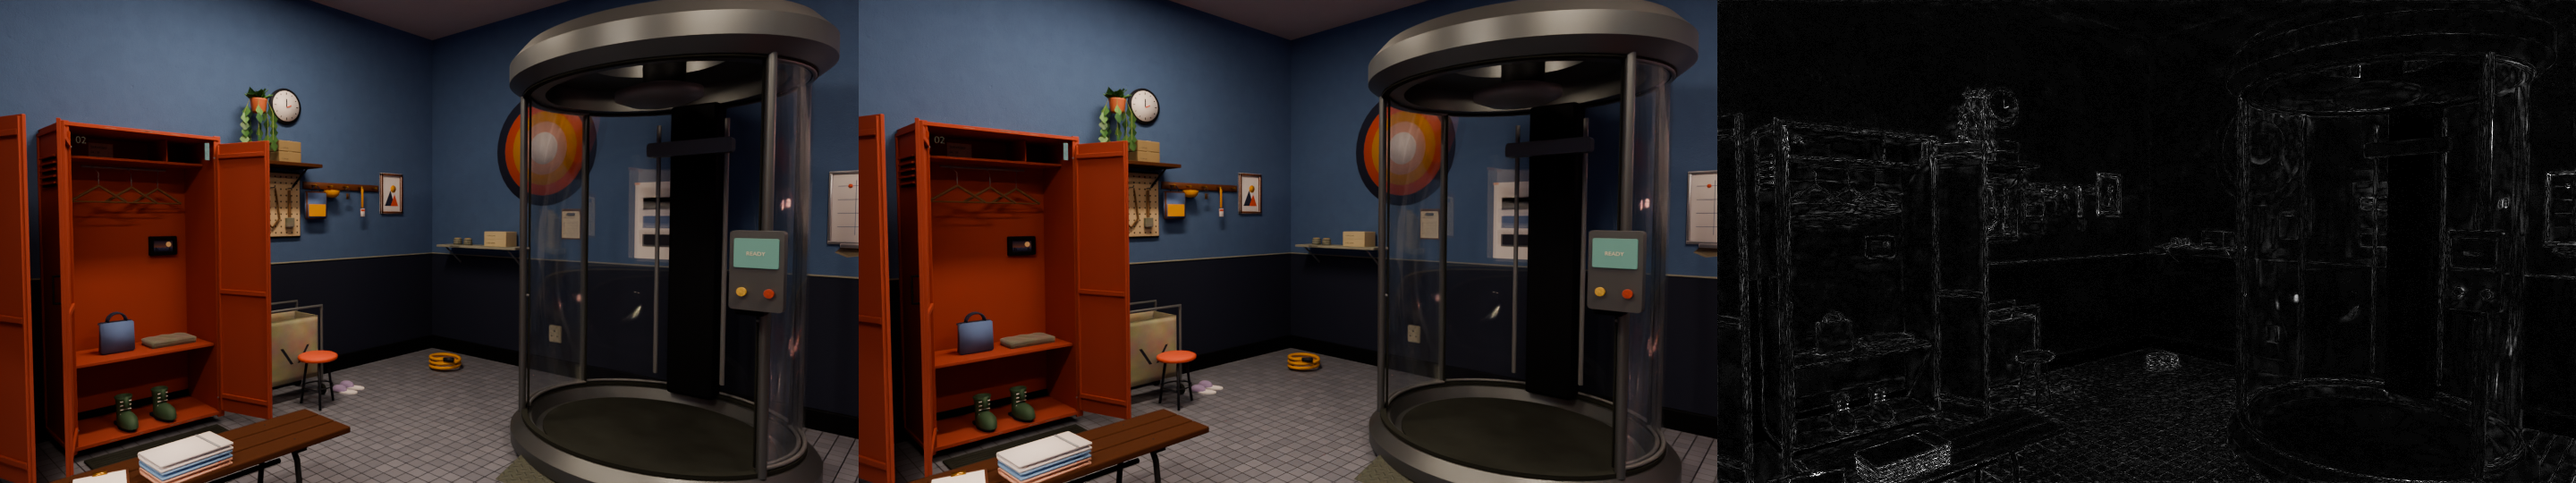
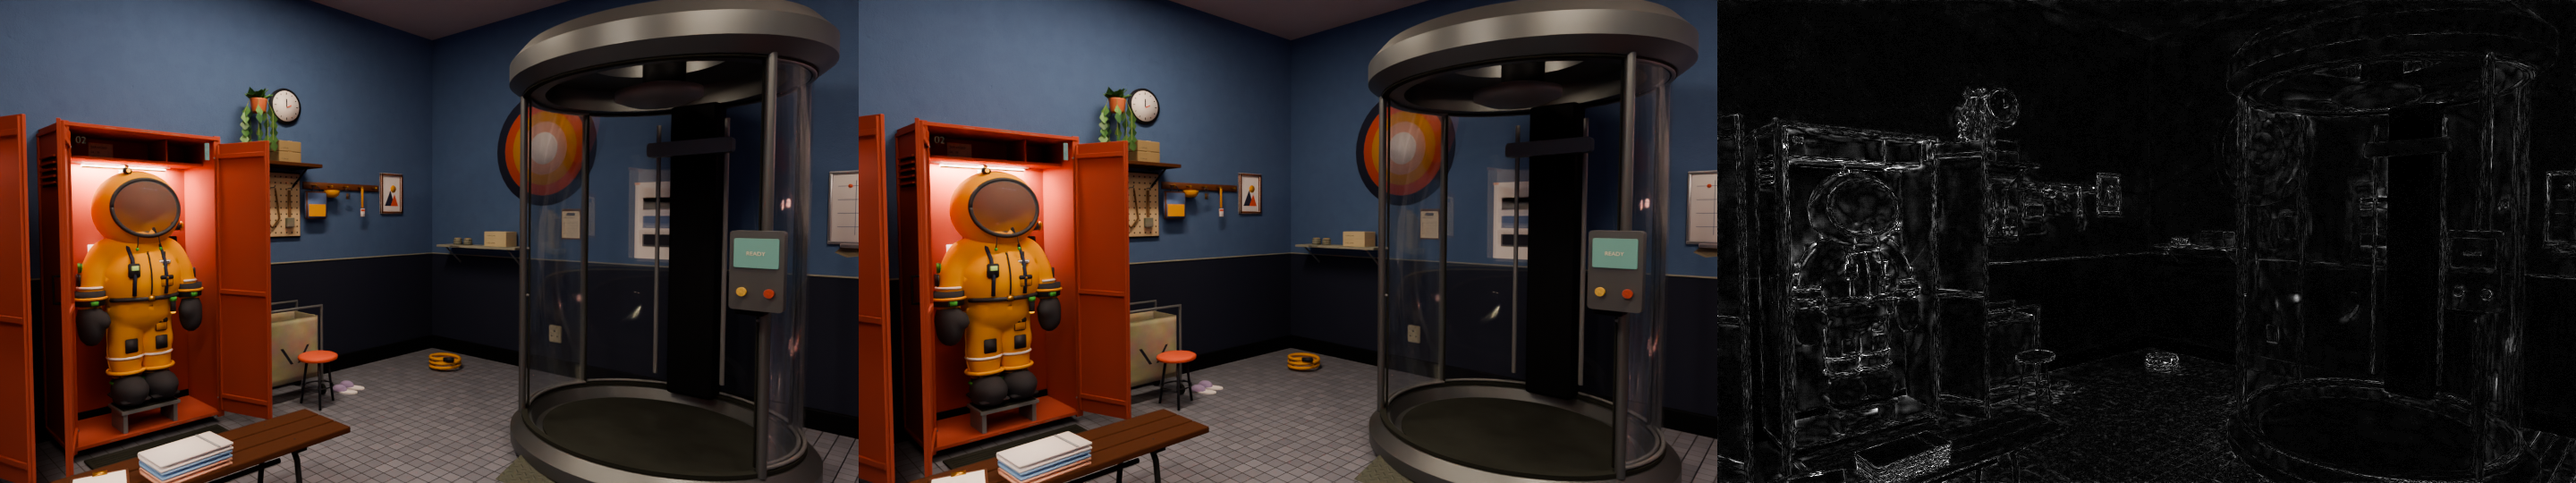
Record the Geiger owner decision in the canonical docs; rerun the optimisation render comparison on the post-suit module
Addresses the two Codex P2 findings on the second review of PR 64.

Claude-Session: https://claude.ai/code/session_017ZYc5YVsgaxmMpnAsLGzAo

diff --git a/sections/spawn-room/production/optimise/README.md b/sections/spawn-room/production/optimise/README.md
@@ -67,23 +67,22 @@ Every number below (objects, joins, conversions, draw calls, materials) comes fr
   lost the keyframes of
   `POD_state_READY` (an animated text object converted to a mesh); Codex's review of #60 caught this class of bug and the
   comparison now fails on it, and also fails if the derivative gains an action, driver or NLA entry the original did not have.
-- `validate_contacts.py` on the derivative: PASS (224 tagged objects, 0 failures), same as the original. (An earlier
+- `validate_contacts.py` on the derivative: PASS (208 tagged objects, 0 failures) on the post-suit module, same as the original (the count was 224 before the suit pass removed the belongings and added the hooks, docks and strip lights). (An earlier
   version of this script merged support targets and failed 48 of them; targets are now kept by name.)
 - Render comparison (Cycles, 48 samples, denoised, fixed seed, 960x540) on six fixed validation cameras, original vs
   derivative; `renders/<camera>.png` shows before | after | difference amplified 6x:
 
   | Camera | mean abs diff | 99th percentile | pixels differing by more than 8% |
   |---|---:|---:|---:|
-  | VALIDATE_Spawn | 0.0057 | 0.039 | 0.081% |
-  | VALIDATE_LockerDoor | 0.0060 | 0.035 | 0.077% |
-  | VALIDATE_BriefingDoor | 0.0079 | 0.043 | 0.190% |
-  | VALIDATE_ExitReverse | 0.0053 | 0.035 | 0.055% |
-  | VALIDATE_Hero_A | 0.0056 | 0.035 | 0.084% |
-  | VALIDATE_Material_A | 0.0039 | 0.024 | 0.003% |
+  | VALIDATE_Spawn | 0.0066 | 0.047 | 0.186% |
+  | VALIDATE_LockerDoor | 0.0073 | 0.047 | 0.194% |
+  | VALIDATE_BriefingDoor | 0.0091 | 0.051 | 0.311% |
+  | VALIDATE_ExitReverse | 0.0057 | 0.039 | 0.101% |
+  | VALIDATE_Hero_A | 0.0071 | 0.051 | 0.249% |
+  | VALIDATE_Material_A | 0.0062 | 0.039 | 0.112% |
 
   The differences sit on edges (anti-aliasing and denoiser noise from a different object order); there are no
-  colour or pattern shifts. I looked at the montages for Spawn and BriefingDoor; the other four were checked by the
-  numbers only. This is a Cycles comparison, not engine rendering, and not art approval.
+  colour or pattern shifts. Rendered again on the post-suit module and its regenerated derivative; I looked at the Hero_A montage (suit, visor, boot dock and strip light match, differences on edges only); the other five were checked by the numbers only. This is a Cycles comparison, not engine rendering, and not art approval.
 
 ## Not done / not claimed
 

diff --git a/sections/spawn-room/production/CHECKLIST.md b/sections/spawn-room/production/CHECKLIST.md
@@ -5,6 +5,9 @@
 > **Art-direction canon:** Critical Shift uses **grounded stylized semi-realism**. Valorant-style environment principles are the primary rendering influence; PEAK contributes readability and restraint only. The target is believable, tactile and simplified, **not** generic low-poly, toy-like, Three.js-looking, glossy sci-fi, or modern AAA photorealism. [ART_DIRECTION](/design/ART_DIRECTION.md) and [ART_REFERENCE_INDEX](/design/ART_REFERENCE_INDEX.md) override conflicting legacy style wording in this file.
 
 
+> [!NOTE]
+> **Owner decision (2026-10-01): the Geiger/radiation checkpoint is not built in the spawn room.** The radiation readout is a player-HUD element. Every Geiger/radiation-station requirement in this file is superseded for the room geometry; the exit, the airlock and the rest of the room are unchanged. Record: `production/final-pass/REPORT.md`.
+
 ## Headless reproducibility
 - [ ] documented Blender CLI entrypoint exists
 - [ ] scene can build/open from fresh process
@@ -20,7 +23,7 @@
 - [ ] two suit stations left
 - [ ] two suit stations right
 - [ ] integrity chamber central
-- [ ] Geiger station directly associated with exit
+- [x] ~~Geiger station directly associated with exit~~ N/A: owner decision 2026-10-01, the radiation readout is a player-HUD element, not room geometry
 - [ ] hallway/doors/circulation pass clearance checks
 
 ## Support-contact validation

diff --git a/sections/spawn-room/scenery/spawnroom.md b/sections/spawn-room/scenery/spawnroom.md
@@ -5,6 +5,9 @@
 > **Art-direction canon:** Critical Shift uses **grounded stylized semi-realism**. Valorant-style environment principles are the primary rendering influence; PEAK contributes readability and restraint only. The target is believable, tactile and simplified, **not** generic low-poly, toy-like, Three.js-looking, glossy sci-fi, or modern AAA photorealism. [ART_DIRECTION](/design/ART_DIRECTION.md) and [ART_REFERENCE_INDEX](/design/ART_REFERENCE_INDEX.md) override conflicting legacy style wording in this file.
 
 
+> [!NOTE]
+> **Owner decision (2026-10-01): the Geiger/radiation checkpoint is not built in the spawn room.** The radiation readout is a player-HUD element. Every Geiger/radiation-station requirement in this file is superseded for the room geometry; the exit, the airlock and the rest of the room are unchanged. Record: `production/final-pass/REPORT.md`.
+
 **File:** spawnroom.md  
 **Section:** Spawn Room  
 **Status:** Authoritative scenery specification  
@@ -732,6 +735,8 @@ Do not make the safe side suddenly horror-dark.
 ---
 
 # 12. Geiger / Radiation Check Station
+
+> **Superseded by owner decision (2026-10-01):** not built in the room; the radiation readout is part of the player HUD. Kept for reference if the checkpoint is ever reinstated.
 
 ## 12.1 Placement
 

diff --git a/sections/spawn-room/prompt/spawnroomprompt.md b/sections/spawn-room/prompt/spawnroomprompt.md
@@ -1,5 +1,9 @@
 # Critical Shift — Spawn Room Build and Self-Review Prompt
 
+> [!NOTE]
+> **Owner decision (2026-10-01): the Geiger/radiation checkpoint is not built in the spawn room.** The radiation readout is a player-HUD element. Every Geiger/radiation-station requirement in this file is superseded for the room geometry; the exit, the airlock and the rest of the room are unchanged. Record: `production/final-pass/REPORT.md`.
+
+
 
 # 0. ART DIRECTION RESET — READ BEFORE BUILDING ANYTHING
 

diff --git a/sections/spawn-room/production/CAMERAS.md b/sections/spawn-room/production/CAMERAS.md
@@ -39,7 +39,7 @@ Must prove:
 - room reads as optional/social.
 
 ### VALIDATE_ExitReverse
-Near Geiger station looking back toward spawn.
+Near the exit looking back toward spawn (the Geiger station is not built: owner decision 2026-10-01, player HUD).
 
 Must prove:
 - reverse navigation remains coherent;
